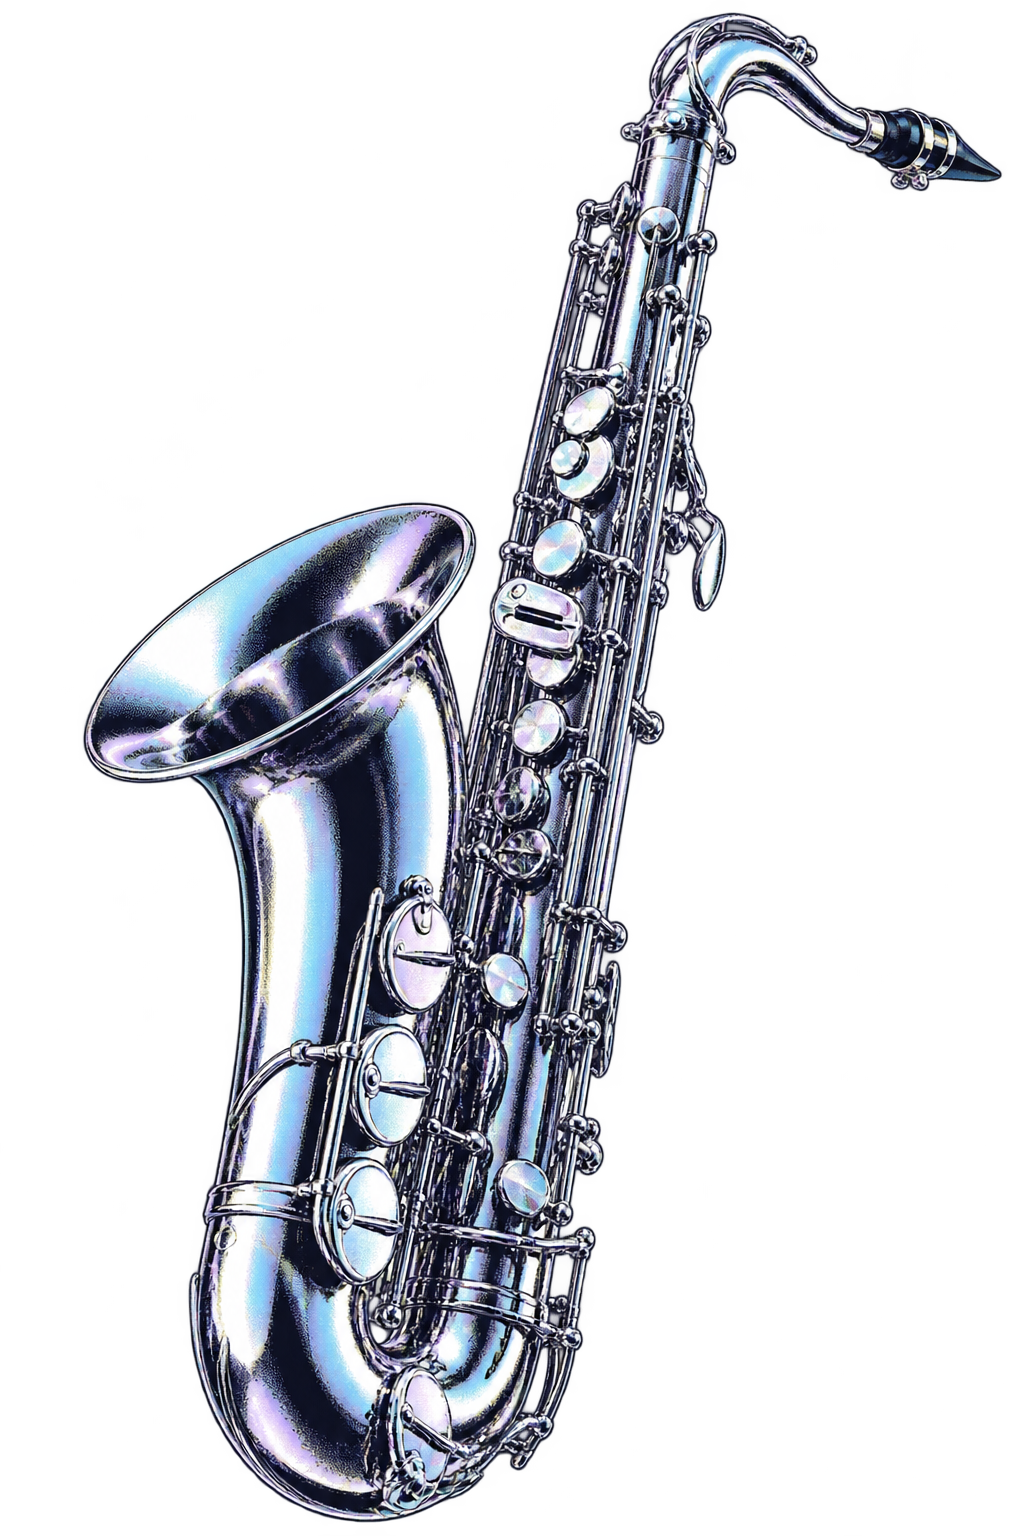
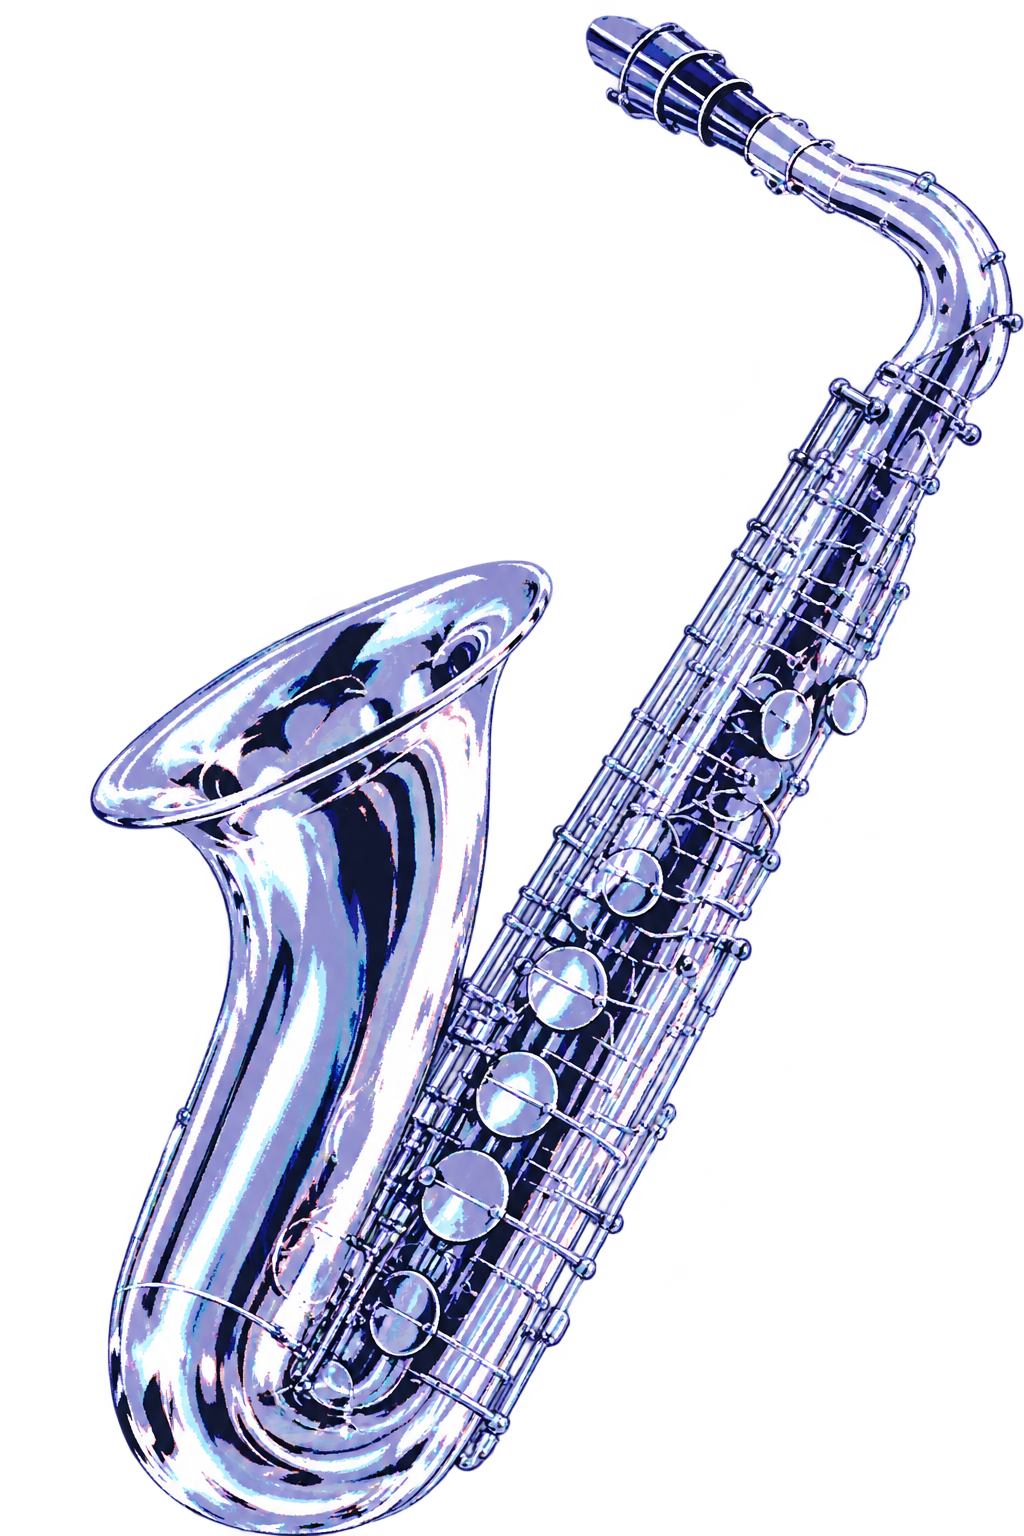
Match homepage graphics to the final NJF poster

diff --git a/src/Site.css b/src/Site.css
@@ -1,4 +1,4 @@
-:root{--site-header-height:96px;--festival-blue:#c5eaff;--festival-navy:#191d2e;--festival-lavender:#9c9bc9}
+:root{--site-header-height:96px;--festival-blue:#c5eaff;--festival-navy:#1a154b;--festival-lavender:#9c9bc9}
 html{scroll-behavior:smooth;scroll-padding-top:32px}
 .site-shell{color:var(--festival-navy);background:#fcfcfd;overflow:clip}
 .site-shell a{color:inherit;text-decoration:none}
@@ -26,8 +26,8 @@ html{scroll-behavior:smooth;scroll-padding-top:32px}
 .poster-heading h1{font-family:Arial,Helvetica,Pretendard,sans-serif;font-weight:900;font-size:clamp(100px,12.4vw,198px);line-height:.82;letter-spacing:-.085em}
 .poster-heading h1>span{display:block}
 .poster-heading h1>span:last-child{font-size:.83em;letter-spacing:-.075em;margin-top:11px}
-.headline-jazz{margin-left:10%;font-style:italic;white-space:nowrap;position:relative}
-.type-star{display:inline-block;color:#9c9bc9;font-size:.64em;line-height:1;margin-left:.16em;vertical-align:20%;font-style:normal;font-weight:400}
+
+
 .sax-position{position:absolute;z-index:2;width:clamp(390px,42vw,650px);right:-2%;top:7%;transform:translate(var(--pointer-x,0px),var(--pointer-y,0px)) rotate(15deg);transition:transform .35s ease-out;pointer-events:none}
 .sax-position img{display:block;width:100%;height:auto;object-fit:contain}
 .poster-orbits{position:absolute;inset:0;z-index:1;pointer-events:none;transform:translate(calc(var(--pointer-x,0px) * -.6),calc(var(--pointer-y,0px) * -.6));transition:transform .4s ease-out}
@@ -133,5 +133,18 @@ html{scroll-behavior:smooth;scroll-padding-top:32px}
 .not-found h1{font-size:clamp(36px,5vw,65px);line-height:1.4;letter-spacing:-2px}
 @media(min-width:1700px){.poster-heading{padding-top:120px}.sax-position{right:3%}}
 @media(max-width:1100px){.site-header nav{gap:23px}.header-edition{display:none}.poster-hero{min-height:760px;max-height:950px}.poster-heading{padding-top:115px}.poster-heading h1{font-size:13.4vw}.poster-heading h1>span:last-child{font-size:.85em}.sax-position{width:47%;right:-6%;top:12%}.hero-vinyl{left:42%;top:56%;width:32%}.sphere-one{width:75px;left:57%;top:8%}.poster-date{bottom:77px}.poster-location{left:43%;bottom:80px}.poster-spark{font-size:100px;right:4%}.intro-grid{gap:7%}.program-row{grid-template-columns:10% 1fr 23% 24px}.timetable{gap:35px}.stage-schedule li{grid-template-columns:1fr;gap:8px}}
-@media(max-width:700px){:root{--site-header-height:116px}.site-header{padding:17px 6% 10px;flex-wrap:wrap;gap:15px}.site-logo>strong{font-size:35px;letter-spacing:-4px}.site-logo>strong>span{font-size:18px;right:-13px}.site-logo>span{font-size:7px;letter-spacing:.8px}.site-header nav{width:100%;justify-content:space-between;gap:12px}.site-header nav a{font-size:9px;letter-spacing:.5px;padding:9px 0}.site-header nav a::after{bottom:1px}.poster-hero{height:780px;min-height:780px;max-height:none}.poster-kicker{inset:22px 6% auto;font-size:7px;letter-spacing:.7px}.poster-heading{margin-left:6%;padding-top:90px;width:88%}.poster-year{font-size:12px;gap:18px;letter-spacing:2px;margin-bottom:26px}.poster-year>span{font-size:10px;letter-spacing:1px}.poster-heading h1{font-size:20vw;line-height:.87;letter-spacing:-.075em}.headline-jazz{margin-left:4%}.poster-heading h1>span:last-child{font-size:.85em;margin-top:7px}.type-star{font-size:.6em;vertical-align:10%;margin-left:.25em}.sax-position{width:76%;right:-20%;top:34%;rotate:-8deg}.hero-vinyl{width:48%;left:5%;top:54%;transform:scaleY(.66);rotate:-24deg}.sphere-one{width:45px;left:77%;top:6%;animation-duration:11s}.sphere-two{width:23px;right:10%;top:41%}.sphere-three{width:32px;left:8%;top:49%}.sphere-four{width:22px;left:50%;top:77%}.poster-orbits span{width:145%;left:-24%;height:29%;top:15%;rotate:30deg}.poster-orbits span:nth-child(2){width:130%;left:5%;top:40%;height:32%;rotate:-32deg}.poster-orbits span:nth-child(3){left:-65%;width:120%;top:64%;height:30%;rotate:28deg}.poster-spark{font-size:75px;right:39%;top:61%}.poster-date{left:6%;bottom:64px}.poster-date>span{font-size:8px;letter-spacing:1.5px}.poster-date>strong{font-size:61px;letter-spacing:-4px;margin:3px 0 8px}.poster-location{left:auto;right:6%;bottom:26px;gap:7px}.location-cross{font-size:24px}.poster-location p{font-size:10px}.poster-location p>span{font-size:7px;letter-spacing:1px}.poster-scroll{left:6%;bottom:20px;font-size:7px;letter-spacing:1px;gap:20px}.poster-hero::before{background:linear-gradient(166deg,transparent 0 78%,#c5eaff 78.1% 100%)}.section-space{padding:40px 7% 60px}.section-index{font-size:7px;letter-spacing:.7px;gap:18px;line-height:1.6;padding-bottom:18px}.section-index>span:last-child{text-align:right}.intro-grid{grid-template-columns:1fr;gap:35px;padding-top:44px}.intro-grid h2{font-size:47px;letter-spacing:-2.5px}.intro-star{display:block;font-size:54px;margin:24px 0 0}.korean-label{font-size:12px;margin-bottom:20px}.intro-english{font-size:10px}.introduction-copy{font-size:14px;line-height:1.9}.festival-facts dd{font-size:13px}.festival-facts>div{grid-template-columns:55px 1fr;gap:14px}.section-heading{display:block;margin:40px 0 25px}.section-heading h2{font-size:36px;letter-spacing:-2px}.section-heading .text-link{margin-top:24px}.program-row{grid-template-columns:45px 1fr 20px;gap:12px;padding:24px 0}.program-number{font-size:8px;grid-row:span 2}.program-row>strong{font-size:22px;letter-spacing:-.8px}.program-date{grid-column:2;font-size:15px}.program-date small{font-size:9px}.program-row>span:last-child{grid-column:3;grid-row:1 / span 2;font-size:22px}.test-promotion{min-height:550px}.promotion-content{margin:50px 0 0;width:100%}.promotion-content>p{font-size:12px;margin-bottom:24px}.promotion-content h2{font-size:clamp(42px,11vw,65px);letter-spacing:-2.5px}.promotion-link{gap:55px;margin-top:25px;font-size:13px}.promotion-vinyl{width:60%;right:-22%;top:61%}.promotion-sphere{width:40px;left:8%;top:85%}.promotion-orbit{width:170%;height:36%;left:-22%;top:57%}.site-footer{padding:28px 7%;gap:25px;flex-wrap:wrap}.footer-logo{font-size:46px;letter-spacing:-4px}.footer-logo>span{font-size:10px;letter-spacing:0}.site-footer>p{font-size:9px;line-height:1.9}.site-footer>p>span{font-size:7px;letter-spacing:.3px}.footer-signoff{display:none}.basic-page{padding:50px 7% 65px;min-height:calc(100svh - 270px)}.page-kicker{font-size:8px;line-height:1.6;letter-spacing:1px}.basic-page h1{font-size:48px;letter-spacing:-2.5px;margin-bottom:40px}.basic-page h1>span{font-size:14px;letter-spacing:0}.basic-intro{grid-template-columns:1fr;gap:24px}.basic-intro h2{font-size:16px}.day-tabs{gap:0;justify-content:space-between;margin-bottom:36px}.day-tabs button{font-size:22px;padding:15px 0}.day-tabs button>span{font-size:8px;margin-left:3px;letter-spacing:.2px}.timetable{grid-template-columns:1fr;gap:45px}.stage-heading h2{font-size:18px}.stage-schedule li{grid-template-columns:100px 1fr;gap:16px;padding:20px 0}.performance-time{font-size:10px}.stage-schedule li strong{font-size:13px}}
+@media(max-width:700px){:root{--site-header-height:116px}.site-header{padding:17px 6% 10px;flex-wrap:wrap;gap:15px}.site-logo>strong{font-size:35px;letter-spacing:-4px}.site-logo>strong>span{font-size:18px;right:-13px}.site-logo>span{font-size:7px;letter-spacing:.8px}.site-header nav{width:100%;justify-content:space-between;gap:12px}.site-header nav a{font-size:9px;letter-spacing:.5px;padding:9px 0}.site-header nav a::after{bottom:1px}.poster-hero{height:780px;min-height:780px;max-height:none}.poster-kicker{inset:22px 6% auto;font-size:7px;letter-spacing:.7px}.poster-heading{margin-left:6%;padding-top:90px;width:88%}.poster-year{font-size:12px;gap:18px;letter-spacing:2px;margin-bottom:26px}.poster-year>span{font-size:10px;letter-spacing:1px}.poster-heading h1{font-size:20vw;line-height:.87;letter-spacing:-.075em}.poster-heading h1>span:last-child{font-size:.85em;margin-top:7px}.sax-position{width:76%;right:-20%;top:34%;rotate:-8deg}.hero-vinyl{width:48%;left:5%;top:54%;transform:scaleY(.66);rotate:-24deg}.sphere-one{width:45px;left:77%;top:6%;animation-duration:11s}.sphere-two{width:23px;right:10%;top:41%}.sphere-three{width:32px;left:8%;top:49%}.sphere-four{width:22px;left:50%;top:77%}.poster-orbits span{width:145%;left:-24%;height:29%;top:15%;rotate:30deg}.poster-orbits span:nth-child(2){width:130%;left:5%;top:40%;height:32%;rotate:-32deg}.poster-orbits span:nth-child(3){left:-65%;width:120%;top:64%;height:30%;rotate:28deg}.poster-spark{font-size:75px;right:39%;top:61%}.poster-date{left:6%;bottom:64px}.poster-date>span{font-size:8px;letter-spacing:1.5px}.poster-date>strong{font-size:61px;letter-spacing:-4px;margin:3px 0 8px}.poster-location{left:auto;right:6%;bottom:26px;gap:7px}.location-cross{font-size:24px}.poster-location p{font-size:10px}.poster-location p>span{font-size:7px;letter-spacing:1px}.poster-scroll{left:6%;bottom:20px;font-size:7px;letter-spacing:1px;gap:20px}.poster-hero::before{background:linear-gradient(166deg,transparent 0 78%,#c5eaff 78.1% 100%)}.section-space{padding:40px 7% 60px}.section-index{font-size:7px;letter-spacing:.7px;gap:18px;line-height:1.6;padding-bottom:18px}.section-index>span:last-child{text-align:right}.intro-grid{grid-template-columns:1fr;gap:35px;padding-top:44px}.intro-grid h2{font-size:47px;letter-spacing:-2.5px}.intro-star{display:block;font-size:54px;margin:24px 0 0}.korean-label{font-size:12px;margin-bottom:20px}.intro-english{font-size:10px}.introduction-copy{font-size:14px;line-height:1.9}.festival-facts dd{font-size:13px}.festival-facts>div{grid-template-columns:55px 1fr;gap:14px}.section-heading{display:block;margin:40px 0 25px}.section-heading h2{font-size:36px;letter-spacing:-2px}.section-heading .text-link{margin-top:24px}.program-row{grid-template-columns:45px 1fr 20px;gap:12px;padding:24px 0}.program-number{font-size:8px;grid-row:span 2}.program-row>strong{font-size:22px;letter-spacing:-.8px}.program-date{grid-column:2;font-size:15px}.program-date small{font-size:9px}.program-row>span:last-child{grid-column:3;grid-row:1 / span 2;font-size:22px}.test-promotion{min-height:550px}.promotion-content{margin:50px 0 0;width:100%}.promotion-content>p{font-size:12px;margin-bottom:24px}.promotion-content h2{font-size:clamp(42px,11vw,65px);letter-spacing:-2.5px}.promotion-link{gap:55px;margin-top:25px;font-size:13px}.promotion-vinyl{width:60%;right:-22%;top:61%}.promotion-sphere{width:40px;left:8%;top:85%}.promotion-orbit{width:170%;height:36%;left:-22%;top:57%}.site-footer{padding:28px 7%;gap:25px;flex-wrap:wrap}.footer-logo{font-size:46px;letter-spacing:-4px}.footer-logo>span{font-size:10px;letter-spacing:0}.site-footer>p{font-size:9px;line-height:1.9}.site-footer>p>span{font-size:7px;letter-spacing:.3px}.footer-signoff{display:none}.basic-page{padding:50px 7% 65px;min-height:calc(100svh - 270px)}.page-kicker{font-size:8px;line-height:1.6;letter-spacing:1px}.basic-page h1{font-size:48px;letter-spacing:-2.5px;margin-bottom:40px}.basic-page h1>span{font-size:14px;letter-spacing:0}.basic-intro{grid-template-columns:1fr;gap:24px}.basic-intro h2{font-size:16px}.day-tabs{gap:0;justify-content:space-between;margin-bottom:36px}.day-tabs button{font-size:22px;padding:15px 0}.day-tabs button>span{font-size:8px;margin-left:3px;letter-spacing:.2px}.timetable{grid-template-columns:1fr;gap:45px}.stage-heading h2{font-size:18px}.stage-schedule li{grid-template-columns:100px 1fr;gap:16px;padding:20px 0}.performance-time{font-size:10px}.stage-schedule li strong{font-size:13px}}
 @media(prefers-reduced-motion:reduce){html{scroll-behavior:auto}.chrome-sphere{animation:none}.sax-position,.poster-orbits{transform:none;transition:none}.site-shell *,.site-shell *::before,.site-shell *::after{animation:none!important;transition:none!important}}
+
+/* Final-poster lettering stays an independent layer, with live date/location text. */
+.screen-reader-only{position:absolute!important;width:1px!important;height:1px!important;padding:0!important;margin:-1px!important;overflow:hidden!important;clip-path:inset(50%)!important;white-space:nowrap!important;border:0!important}
+.poster-heading{width:50%;padding-top:75px}
+.poster-heading h1{font-size:inherit;line-height:1;letter-spacing:0}
+.poster-heading h1 img{display:block;width:100%;height:clamp(390px,52vh,560px);object-fit:contain;object-position:left top}
+.poster-signature{position:absolute;z-index:3;left:42%;top:37%;font-family:Georgia,serif;font-style:italic;font-size:clamp(30px,3.2vw,48px);line-height:.95;letter-spacing:-2px;text-align:right;color:#7bb9d6;rotate:-12deg;pointer-events:none}
+.sax-position{transform:translate(var(--pointer-x,0px),var(--pointer-y,0px)) rotate(7deg)}
+@media(max-width:1100px){.poster-heading{padding-top:80px;width:57%}.poster-signature{left:47%;top:42%;font-size:31px}}
+@media(max-width:700px){.poster-heading{padding-top:65px;width:68%;margin-left:3%}.poster-heading h1{font-size:inherit}.poster-heading h1 img{height:350px}.poster-year{margin-left:5%;gap:12px}.poster-signature{display:none}.sax-position{top:37%;right:-31%;rotate:0deg}.hero-vinyl{top:57%}}
+@media(prefers-reduced-motion:reduce){.sax-position{transform:rotate(7deg)}}
+
+@media(max-width:360px){.poster-date>strong{font-size:52px}}

diff --git a/src/App.tsx b/src/App.tsx
@@ -67,8 +67,9 @@ function PosterHero() {
     <div className="poster-kicker"><span>SEOUL, SOUTH KOREA</span><span>08—10 OCTOBER 2027</span></div>
     <div className="poster-heading">
       <p className="poster-year">2027 <span>노들 재즈 페스티벌</span></p>
-      <h1 id="festival-title"><span>NODEUL</span><span className="headline-jazz">JAZZ<span className="type-star" aria-hidden="true">✦</span></span><span>FESTIVAL</span></h1>
+      <h1 id="festival-title"><span className="screen-reader-only">2027 NODEUL JAZZ FESTIVAL · 노들 재즈 페스티벌</span><img src="/festival/korean-title.png" alt="" width="1223" height="1286" fetchPriority="high" /></h1>
     </div>
+    <p className="poster-signature" aria-hidden="true">Nodeul<br />Jazz<br />Festival</p>
     <div className="sax-position" aria-hidden="true"><img src="/festival/chrome-saxophone.png" alt="" width="1024" height="1536" fetchPriority="high" /></div>
     <Vinyl className="hero-vinyl" />
     <span className="chrome-sphere sphere-one" aria-hidden="true" />

diff --git a/README.md b/README.md
@@ -26,7 +26,7 @@ npm run preview -- --host 0.0.0.0 --port 4173 --strictPort
 
 History API 기반 내부 링크와 브라우저 뒤로/앞으로 이동을 지원합니다. Vercel의 기존 SPA rewrite로 각 경로의 직접 진입·새로고침을 처리합니다. 새 라이브러리는 사용하지 않습니다.
 
-홈 색소폰은 제공된 포스터의 컬러와 질감을 참고해 생성한 개별 투명 에셋입니다. 바이닐·구체·궤도는 CSS로 구성합니다. 포인터 움직임은 requestAnimationFrame으로 제한하고, reduced-motion 설정에서는 움직임을 끕니다.
+홈 한글 레터링과 색소폰은 제공된 최종 포스터를 바탕으로 이미지 도구로 가공한 개별 투명 에셋입니다. 원본을 픽셀 단위로 잘라낸 것과는 미세한 차이가 있을 수 있습니다. 바이닐·구체·궤도는 CSS로 구성합니다. 포인터 움직임은 requestAnimationFrame으로 제한하고, reduced-motion 설정에서는 움직임을 끕니다.
 
 ## Jazz Test
 
